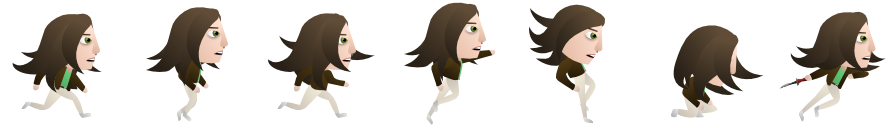
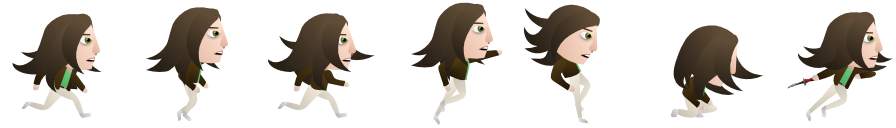
Attack Sprite

Changed region(s): [[0.4375, 0.0, 0.6875, 0.9688], [0.875, 0.0938, 1.0, 0.9375], [0.625, 0.0312, 0.6562, 0.0625]]

diff --git a/Assets/Scripts/Ingame/Player/PlayerOperator.cs b/Assets/Scripts/Ingame/Player/PlayerOperator.cs
@@ -35,6 +35,7 @@ namespace Mixin.TheLastMove.Player
         private const float _jumpVelocityBreak = 5f;
 
         private const float _landDuration = 0.15f;
+        private const float _attackDuration = 0.15f;
 
         private float Hectic => EnvironmentManager.Instance.Hectic;
 
@@ -51,7 +52,7 @@ namespace Mixin.TheLastMove.Player
         private bool _isJumping;
 
         private PlayerSpriteState _playerSpriteState;
-        private float _landTime;
+        private float _spriteTime;
 
         private bool HasJump => _remainingJumpList.Count > 0;
 
@@ -64,11 +65,13 @@ namespace Mixin.TheLastMove.Player
         private void OnEnable()
         {
             InputManager.OnPlayerJump += Jump;
+            InputManager.OnPlayerAttack += Attack;
         }
 
         private void OnDisable()
         {
             InputManager.OnPlayerJump -= Jump;
+            InputManager.OnPlayerAttack += Attack;
         }
 
         public void Tick(float time)
@@ -78,22 +81,33 @@ namespace Mixin.TheLastMove.Player
             if (!_isJumping && _rigidbody.velocity.y > 0)
                 _rigidbody.velocity = Vector2.up * Mathf.Lerp(_rigidbody.velocity.y, 0, _jumpVelocityBreak * time);
 
-            if (_rigidbody.velocity.y > 0)
-                _playerSpriteState = PlayerSpriteState.Jump;
-            else if (_rigidbody.velocity.y < 0)
-                _playerSpriteState = PlayerSpriteState.Fall;
-            else if (_rigidbody.velocity.y == 0)
+            if (_playerSpriteState == PlayerSpriteState.Attack)
             {
-                if (_playerSpriteState == PlayerSpriteState.Land)
-                {
-                    _landTime += time;
+                _spriteTime += time;
 
-                    if (_landTime >= _landDuration)
-                        _playerSpriteState = PlayerSpriteState.Walk;
-                }
-                else
-                {
+                if (_spriteTime >= _attackDuration)
                     _playerSpriteState = PlayerSpriteState.Walk;
+            }
+
+            if (_playerSpriteState != PlayerSpriteState.Attack)
+            {
+                if (_rigidbody.velocity.y > 0)
+                    _playerSpriteState = PlayerSpriteState.Jump;
+                else if (_rigidbody.velocity.y < 0)
+                    _playerSpriteState = PlayerSpriteState.Fall;
+                else if (_rigidbody.velocity.y == 0)
+                {
+                    if (_playerSpriteState == PlayerSpriteState.Land)
+                    {
+                        _spriteTime += time;
+
+                        if (_spriteTime >= _landDuration)
+                            _playerSpriteState = PlayerSpriteState.Walk;
+                    }
+                    else
+                    {
+                        _playerSpriteState = PlayerSpriteState.Walk;
+                    }
                 }
             }
 
@@ -120,12 +134,18 @@ namespace Mixin.TheLastMove.Player
             RefreshVelocity();
         }
 
-        public void Jump()
+        private void Jump()
         {
             _isJumping = true;
             _rigidbody.velocity = Vector2.up * _remainingJumpList[0] * Mathf.Sqrt(Hectic);
             _remainingJumpList.RemoveAt(0);
             _playerSpriteState = PlayerSpriteState.Jump;
+        }
+
+        private void Attack()
+        {
+            _playerSpriteState = PlayerSpriteState.Attack;
+            _spriteTime = 0;
         }
 
         private void TakeDamage()
@@ -185,7 +205,7 @@ namespace Mixin.TheLastMove.Player
                 if (_playerSpriteState == PlayerSpriteState.Fall)
                 {
                     _playerSpriteState = PlayerSpriteState.Land;
-                    _landTime = 0;
+                    _spriteTime = 0;
                 }
             }
         }

diff --git a/Assets/Scripts/Ingame/Player/PlayerAnimationOperator.cs b/Assets/Scripts/Ingame/Player/PlayerAnimationOperator.cs
@@ -26,6 +26,9 @@ namespace Mixin.TheLastMove.Player
         [SerializeField]
         private Sprite _land;
 
+        [SerializeField]
+        private Sprite _attack;
+
         private int _currentSprite = 0; // index of the current sprite
 
         private PlayerOperator _playerOperator => EnvironmentManager.Instance.PlayerOperator;
@@ -76,6 +79,9 @@ namespace Mixin.TheLastMove.Player
                         break;
                     case PlayerSpriteState.Land:
                         _spriteRenderer.sprite = _land;
+                        break;
+                    case PlayerSpriteState.Attack:
+                        _spriteRenderer.sprite = _attack;
                         break;
                     default:
                         break;

diff --git a/Assets/Scripts/Ingame/Player/PlayerSlashOperator.cs b/Assets/Scripts/Ingame/Player/PlayerSlashOperator.cs
@@ -1,5 +1,4 @@
 using Mixin.TheLastMove.Environment;
-using Mixin.Utils;
 using System.Collections;
 using UnityEngine;
 

diff --git a/Assets/Scripts/Ingame/Player/PlayerSpriteState.cs b/Assets/Scripts/Ingame/Player/PlayerSpriteState.cs
@@ -6,5 +6,6 @@
         Jump,
         Fall,
         Land,
+        Attack,
     }
 }
